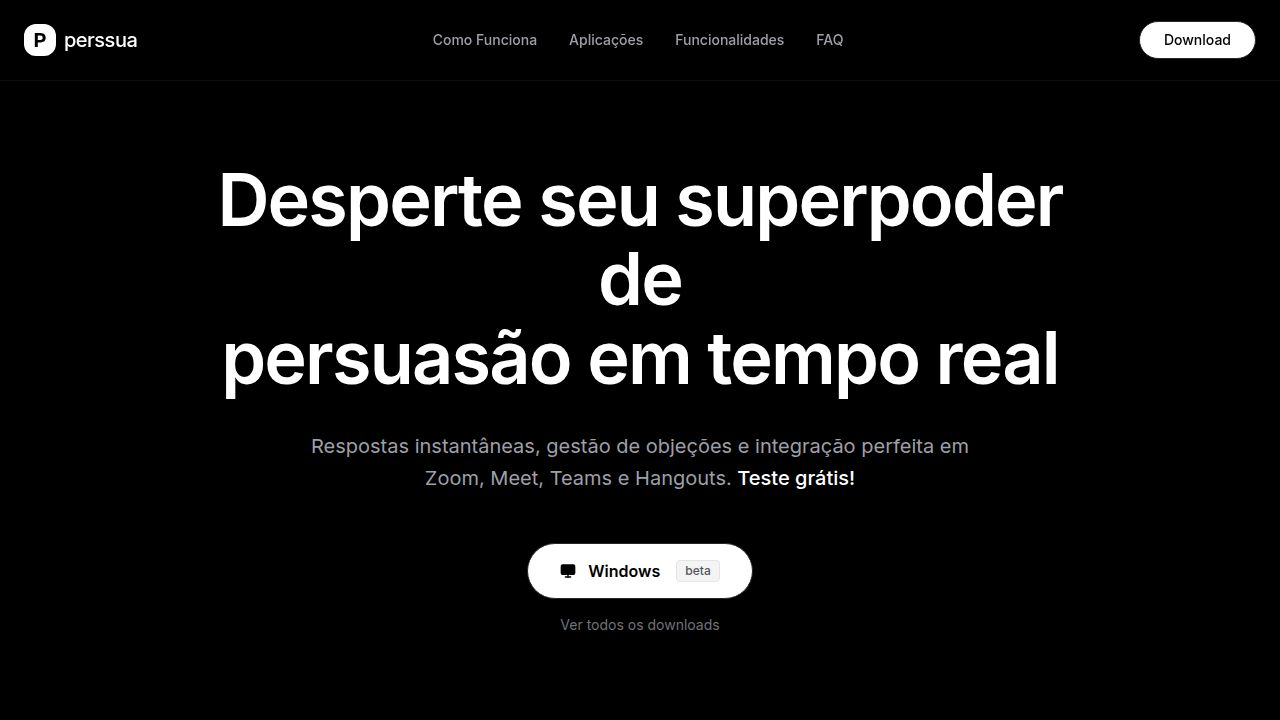
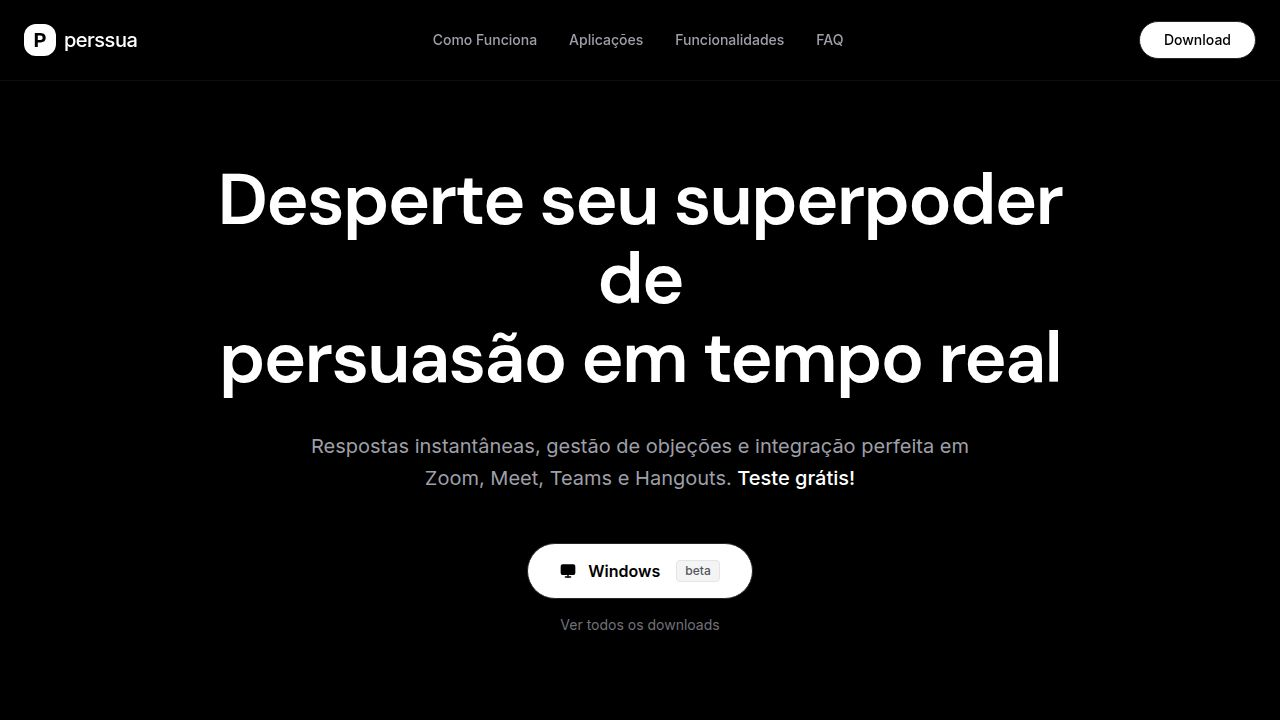
Update hero title font to DM Sans
Import the DM Sans font from Google Fonts and apply it to the hero title component in `client/src/components/hero.tsx`.

Replit-Commit-Author: Agent
Replit-Commit-Session-Id: 3b53d259-f029-47f8-96e7-e7c599632715
Replit-Commit-Checkpoint-Type: full_checkpoint
Replit-Commit-Event-Id: 2ecf8857-f5cb-4ffc-94fe-06eb2b0265df
Replit-Commit-Screenshot-Url: https://storage.googleapis.com/screenshot-production-us-central1/ca7532e6-b66d-43f2-9e55-9a35367f6f0b/3b53d259-f029-47f8-96e7-e7c599632715/ss6eAXt
Replit-Helium-Checkpoint-Created: true

Changed region(s): [[0.1562, 0.4583, 0.8438, 0.55], [0.1875, 0.2444, 0.8438, 0.3361], [0.4688, 0.3667, 0.5312, 0.4278]]

diff --git a/client/index.html b/client/index.html
@@ -14,7 +14,7 @@
     <link rel="icon" type="image/png" href="/favicon.png" />
     <link rel="preconnect" href="https://fonts.googleapis.com">
     <link rel="preconnect" href="https://fonts.gstatic.com" crossorigin>
-    <link href="https://fonts.googleapis.com/css2?family=Inter:wght@300;400;500;600;700&display=swap" rel="stylesheet">
+    <link href="https://fonts.googleapis.com/css2?family=Inter:wght@300;400;500;600;700&family=DM+Sans:wght@400;500;600;700&display=swap" rel="stylesheet">
   </head>
   <body>
     <div id="root"></div>

diff --git a/client/src/components/hero.tsx b/client/src/components/hero.tsx
@@ -11,7 +11,7 @@ export function Hero() {
         transition={{ duration: 0.6 }}
         className="max-w-4xl mx-auto space-y-8"
       >
-        <h1 className="text-5xl md:text-7xl font-semibold tracking-tight leading-[1.1]">
+        <h1 className="text-5xl md:text-7xl font-semibold tracking-tight leading-[1.1] font-['DM_Sans']">
           Desperte seu superpoder de<br />
           persuasão em tempo real
         </h1>
